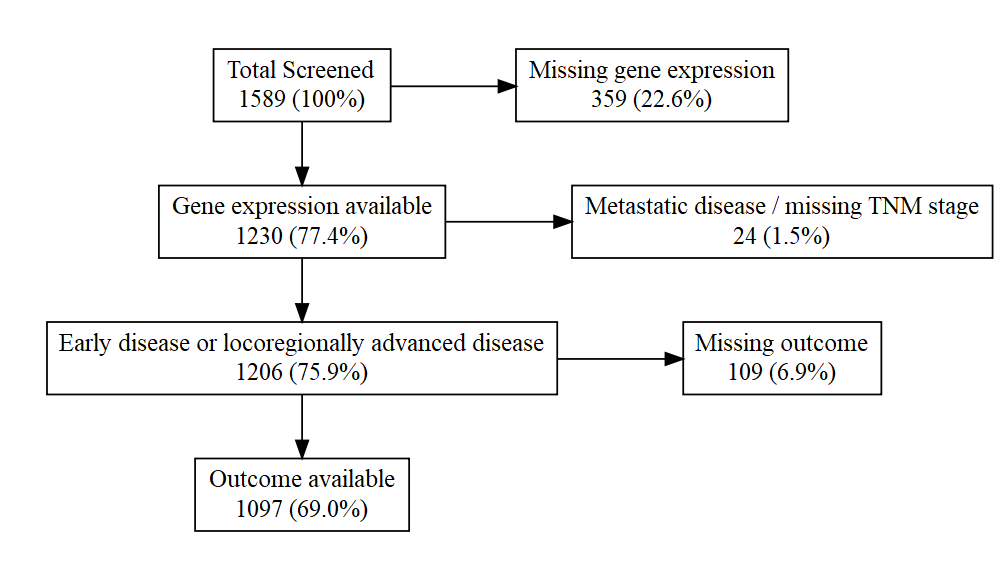
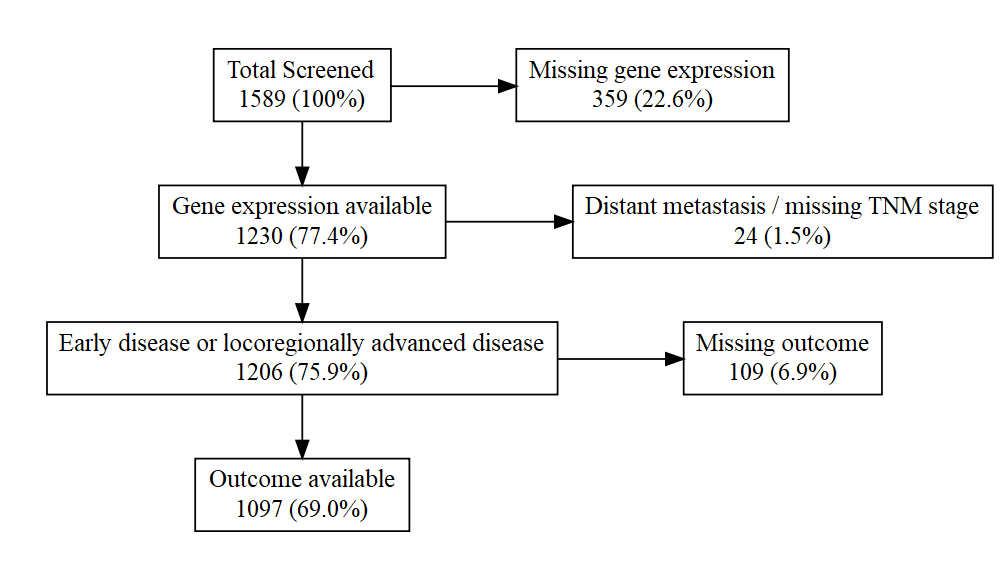
Updated terminology

diff --git a/Exclusion_flowcharts_markdown.md b/Exclusion_flowcharts_markdown.md
@@ -25,7 +25,7 @@ overall survival** as outcome:
 ``` r
 flow_exclusions(incl_counts = c(1589, 1564, 1447), total_label = "Total Screened",
     incl_labels = c("Early disease or locoregionally advanced disease", "Outcome available"),
-    excl_labels = c("Metastatic disease / missing TNM stage", "Missing outcome"),
+    excl_labels = c("Distant metastasis / missing TNM stage", "Missing outcome"),
     percent_of_total = TRUE)
 ```
 
@@ -37,7 +37,7 @@ outcome:
 ``` r
 flow_exclusions(incl_counts = c(1589, 1564, 1251), total_label = "Total Screened",
     incl_labels = c("Early disease or locoregionally advanced disease", "Outcome available"),
-    excl_labels = c("Metastatic disease / missing TNM stage", "Missing outcome"),
+    excl_labels = c("Distant metastasis / missing TNM stage", "Missing outcome"),
     percent_of_total = TRUE)
 ```
 
@@ -49,7 +49,7 @@ use the same subset of data, but GS3 has different variable encoding.
 ``` r
 flow_exclusions(incl_counts = c(1589, 1230, 1206, 1097), total_label = "Total Screened",
     incl_labels = c("Gene expression available", "Early disease or locoregionally advanced disease",
-        "Outcome available"), excl_labels = c("Missing gene expression", "Metastatic disease / missing TNM stage",
+        "Outcome available"), excl_labels = c("Missing gene expression", "Distant metastasis / missing TNM stage",
         "Missing outcome"), percent_of_total = TRUE)
 ```
 
@@ -64,7 +64,7 @@ encoding.
 ``` r
 flow_exclusions(incl_counts = c(1589, 1230, 1206, 907), total_label = "Total Screened",
     incl_labels = c("Gene expression available", "Early disease or locoregionally advanced disease",
-        "Outcome available"), excl_labels = c("Missing gene expression", "Metastatic disease / missing TNM stage",
+        "Outcome available"), excl_labels = c("Missing gene expression", "Distant metastasis / missing TNM stage",
         "Missing outcome"), percent_of_total = TRUE)
 ```
 
@@ -80,7 +80,7 @@ they had chemotherapy).
 flow_exclusions(incl_counts = c(1589, 1230, 1012, 802, 750), total_label = "Total Screened",
     incl_labels = c("Gene expression available", "Locoregionally advanced disease",
         "Treatment information available", "Outcome available"), excl_labels = c("Missing gene expression",
-        "Early disease or metastatic disease", "Missing treatment information", "Missing outcome"),
+        "Early disease or distant metastasis", "Missing treatment information", "Missing outcome"),
     percent_of_total = TRUE)
 ```
 
@@ -94,7 +94,7 @@ chemo agents. Very similar to OS above.
 flow_exclusions(incl_counts = c(1589, 1230, 1012, 802, 700), total_label = "Total Screened",
     incl_labels = c("Gene expression available", "Locoregionally advanced disease",
         "Treatment information available", "Outcome available"), excl_labels = c("Missing gene expression",
-        "Early disease or metastatic disease", "Missing treatment information", "Missing outcome"),
+        "Early disease or distant metastasis", "Missing treatment information", "Missing outcome"),
     percent_of_total = TRUE)
 ```
 
@@ -107,14 +107,14 @@ OS & GS4&GS5 OS data**.
 # clinical base:
 clinical_flow <- flow_exclusions(incl_counts = c(1589, 1564, 1447), total_label = "Total Screened",
     incl_labels = c("Early disease or \nlocoregionally advanced disease", "Outcome available"),
-    excl_labels = c("Metastatic disease \n or missing TNM stage", "Missing outcome"),
+    excl_labels = c("Distant metastasis \n or missing TNM stage", "Missing outcome"),
     percent_of_total = TRUE)
 
 # GS4&GS5 OS:
 GS4GS5_flow <- flow_exclusions(incl_counts = c(1589, 1230, 1012, 802, 750), total_label = "Total Screened",
     incl_labels = c("Gene expression available", "Locoregionally advanced disease",
         "Treatment information available", "Outcome available"), excl_labels = c("Missing gene expression",
-        "Early disease \nor metastatic disease", "Missing treatment \ninformation",
+        "Early disease \nor distant metastasis", "Missing treatment \ninformation",
         "Missing outcome"), percent_of_total = TRUE)
 
 combineWidgets(clinical_flow, GS4GS5_flow, ncol = 2, nrow = 1)
